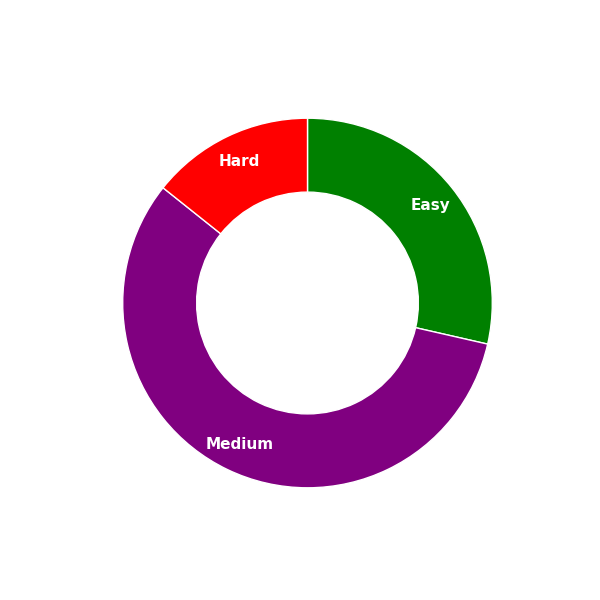
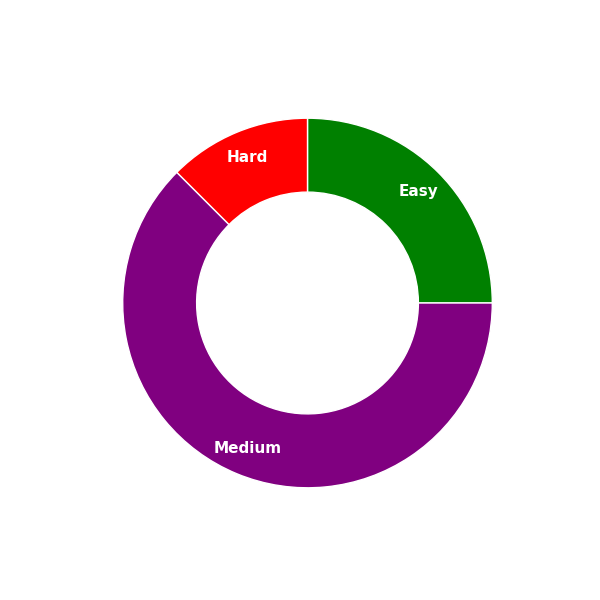
updated README.md

diff --git a/README.md b/README.md
@@ -23,17 +23,17 @@ leetcode-solutions/
 
 ## 📈 Progress
 
-> 📅 **Last updated on:** June 25, 2025
+> 📅 **Last updated on:** June 26, 2025
 
 | Difficulty | Solved |
 | ---------- | ------ |
 | Easy       | 02     |
-| Medium     | 04     |
+| Medium     | 05     |
 | Hard       | 01     |
 
 # Progress Chart
 
-> 📅 **Last updated on:** June 25, 2025
+> 📅 **Last updated on:** June 26, 2025
 
 ![Chart](assets/problem-solved-count-chart.png)
 
